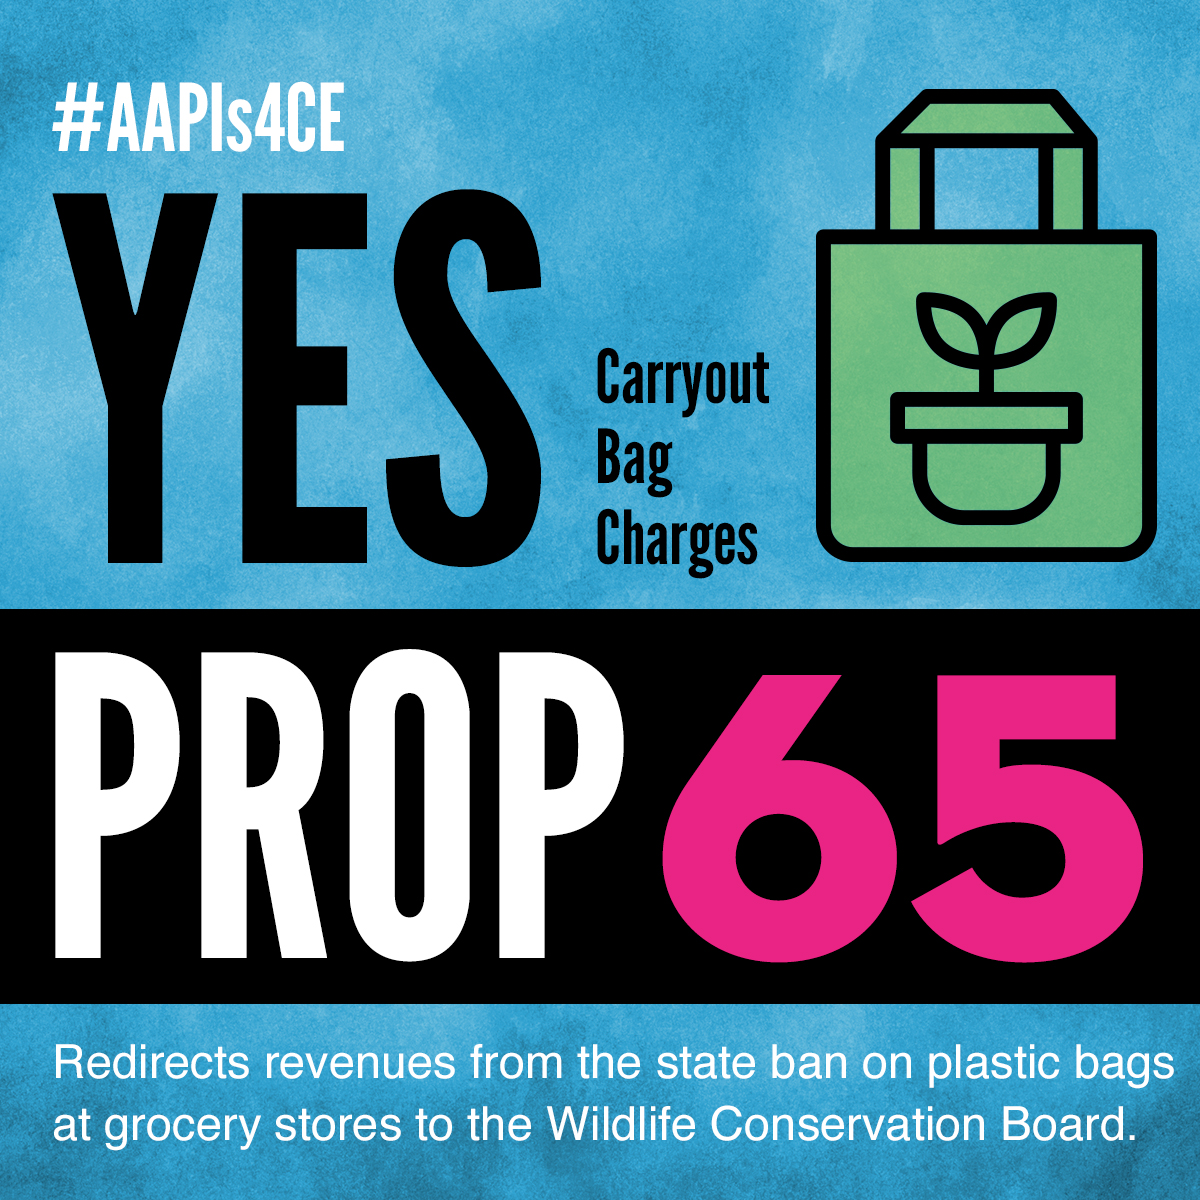
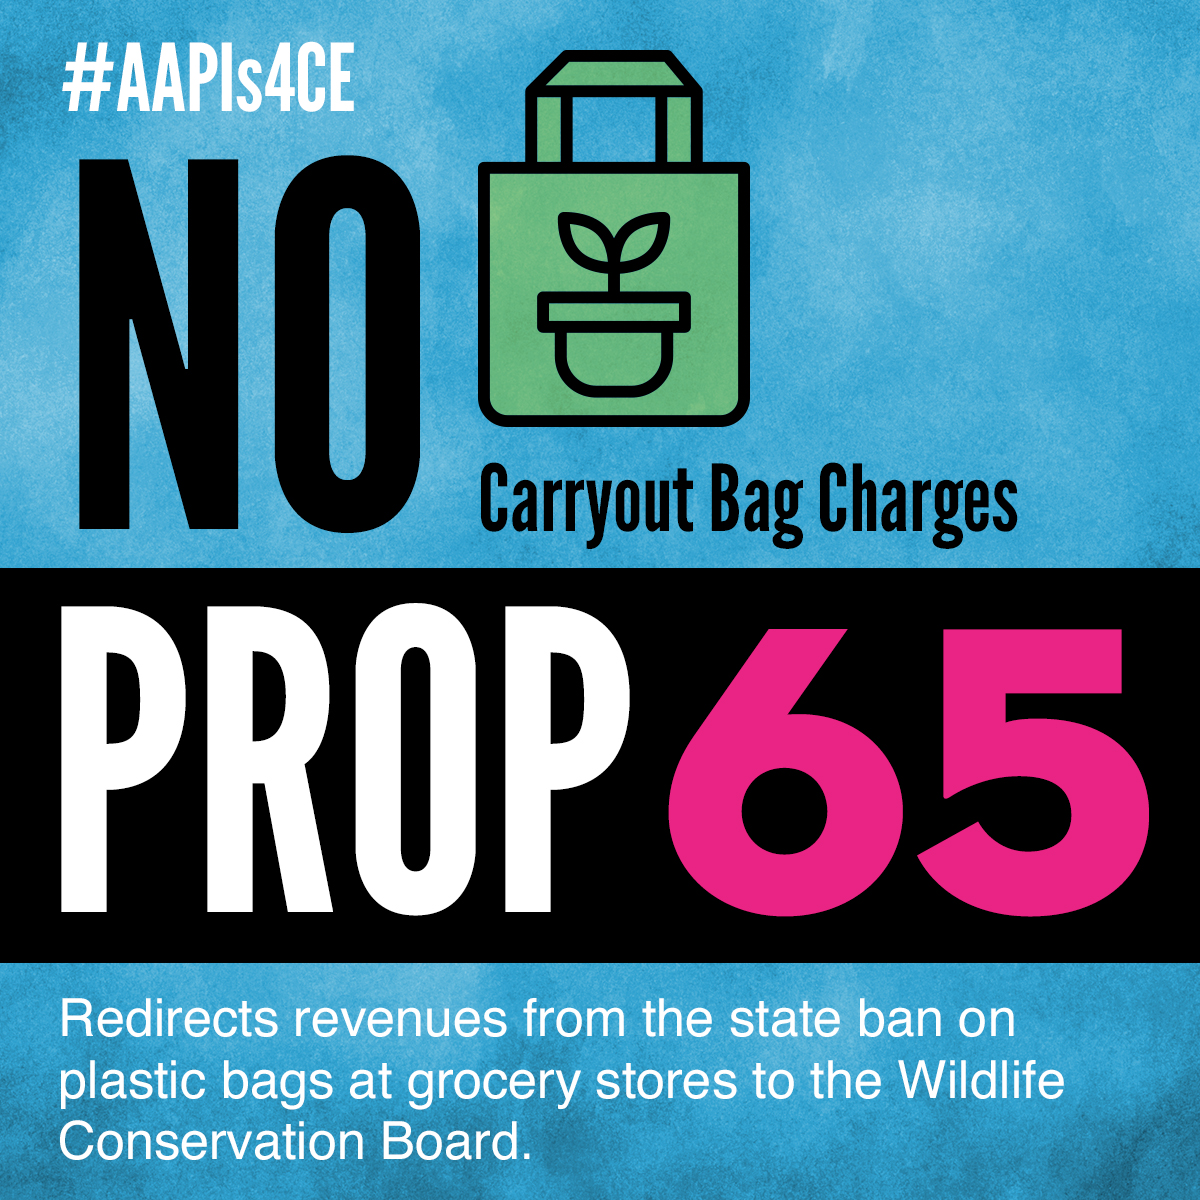
update prop 65
oops

diff --git a/aapis4ce.md b/aapis4ce.md
@@ -53,10 +53,10 @@ __A lot of people will be voting this November and it is going to be a close ele
 		<p><b>No on Proposition 66: Death Penalty Procedures</b></p>
 		<p>Accelerates the death penalty process, increasing the risk that California will execute innocent people.</p>
 	</li>
-<!--	<li><img src="../static/images/props/prop65.jpg">
+	<li><img src="../static/images/props/prop65.jpg">
 		<p><b>No on Proposition 65: Plastic Bag Fee</b></p>
-		<p>Redirects revenues from the state ban on plastic bags at grocery stores to the Wildlife Conservation Board.</p>
-	</li> -->
+		<p>Redirects revenues from the state ban on plastic bags at grocery stores from the general fund to the Wildlife Conservation Board.</p>
+	</li>
 	<li><img src="../static/images/props/prop67.jpg">
 		<p><b>Yes on Proposition 67: Ban on Single-use Plastic Bags</b></p>
 		<p>Upholds the law restricting single-use carryout bags.</p>
@@ -74,6 +74,8 @@ __A lot of people will be voting this November and it is going to be a close ele
 - Vietnamese Guide [<a href="../static/pdf/API-VoterGuide-2016_Vietnamese-8.5x11_v2.pdf">PDF</a>]
 
 ## Sponsoring Organizations
+
+_While this is a complete list of sponsors, please refer to the full guide to see detailed positions from each organization. Since we represent some of the enormous diversity of California's AAPI population, not all organizations endorse and align on all ballot propositions._
 
 <ul class="rig" id="orgs">
 	<li><a href="http://18millionrising.org"><img src="../static/images/orgs/18MR.png"></a>
